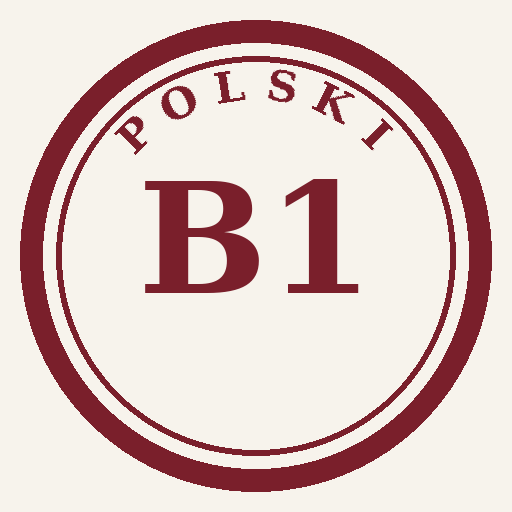
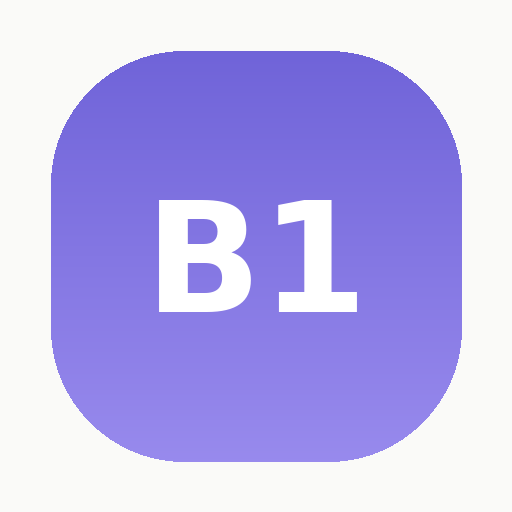
Новый дизайн: современный минималистичный edtech-стиль, sans-serif

diff --git a/index.html b/index.html
@@ -5,29 +5,32 @@
 <meta name="viewport" content="width=device-width, initial-scale=1, viewport-fit=cover">
 <title>Polski B1 — Przygotowanie</title>
 <link rel="manifest" href="manifest.json">
-<meta name="theme-color" content="#7A1F2B">
+<meta name="theme-color" content="#6B5FD6">
 <link rel="apple-touch-icon" href="icon-192.png">
 <meta name="apple-mobile-web-app-capable" content="yes">
 <meta name="apple-mobile-web-app-status-bar-style" content="black-translucent">
 <link rel="preconnect" href="https://fonts.googleapis.com">
-<link href="https://fonts.googleapis.com/css2?family=Lora:ital,wght@0,500;0,600;0,700;1,500&family=Inter:wght@400;500;600;700&display=swap" rel="stylesheet">
+<link href="https://fonts.googleapis.com/css2?family=Plus+Jakarta+Sans:wght@500;600;700;800&family=Inter:wght@400;500;600;700&display=swap" rel="stylesheet">
 <style>
 
 :root{
-  --paper:#F7F3EC;
-  --paper-2:#EFE8DA;
-  --ink:#1F1B16;
-  --ink-soft:#5A5249;
-  --seal:#7A1F2B;
-  --seal-dark:#5E1521;
-  --gold:#D9A441;
-  --ok:#3F6B4F;
-  --ok-bg:#E7EFE5;
-  --bad:#A8392E;
-  --bad-bg:#F6E6E2;
-  --line:#DCD3C0;
-  --radius:14px;
-  --shadow: 0 2px 10px rgba(31,27,22,0.06), 0 1px 2px rgba(31,27,22,0.08);
+  --paper:#FAFAF8;
+  --paper-2:#F1EEFB;
+  --card:#FFFFFF;
+  --ink:#2B2A33;
+  --ink-soft:#8B8997;
+  --seal:#6B5FD6;
+  --seal-dark:#564AC2;
+  --seal-light:#EDE9FC;
+  --gold:#F4A99B;
+  --ok:#2FA876;
+  --ok-bg:#E3F6ED;
+  --bad:#E8685B;
+  --bad-bg:#FDECEA;
+  --mint:#8FD4B8;
+  --line:#ECEAF2;
+  --radius:18px;
+  --shadow: 0 1px 2px rgba(43,42,51,0.04), 0 8px 24px rgba(107,95,214,0.07);
 }
 
 *{box-sizing:border-box;}
@@ -41,7 +44,7 @@ body{
   padding-bottom:env(safe-area-inset-bottom);
 }
 
-h1,h2,h3,.serif{font-family:'Lora',serif;}
+h1,h2,h3,.serif{font-family:'Plus Jakarta Sans',sans-serif;}
 
 /* ---------- App shell ---------- */
 #app{max-width:720px;margin:0 auto;min-height:100vh;display:flex;flex-direction:column;}
@@ -49,7 +52,8 @@ h1,h2,h3,.serif{font-family:'Lora',serif;}
 /* Header */
 .topbar{
   position:sticky; top:0; z-index:20;
-  background:var(--paper);
+  background:rgba(250,250,248,0.92);
+  backdrop-filter: blur(10px);
   border-bottom:1px solid var(--line);
   padding:14px 18px;
   display:flex; align-items:center; gap:12px;
@@ -57,189 +61,195 @@ h1,h2,h3,.serif{font-family:'Lora',serif;}
 }
 .topbar .back-btn{
   width:36px;height:36px;border-radius:50%;
-  border:1px solid var(--line); background:var(--paper);
+  border:none; background:var(--paper-2);
   display:flex;align-items:center;justify-content:center;
   cursor:pointer; flex-shrink:0; color:var(--seal);
-  font-size:18px; user-select:none;
+  font-size:16px; user-select:none;
 }
 .topbar .back-btn.hidden{visibility:hidden;}
-.topbar .title{font-family:'Lora',serif; font-weight:600; font-size:18px; flex:1; line-height:1.2;}
-.topbar .title small{display:block;font-family:'Inter';font-weight:400;font-size:12px;color:var(--ink-soft);margin-top:1px;}
+.topbar .title{font-family:'Plus Jakarta Sans',sans-serif; font-weight:700; font-size:17px; flex:1; line-height:1.2;}
+.topbar .title small{display:block;font-family:'Inter';font-weight:500;font-size:12px;color:var(--ink-soft);margin-top:2px;}
 
-/* Seal logo (signature element) */
+/* Badge logo (signature element) */
 .seal{
-  width:34px;height:34px;border-radius:50%;
-  border:2px solid var(--seal);
+  width:34px;height:34px;border-radius:11px;
+  background:linear-gradient(135deg, var(--seal), #9D8FF0);
   display:flex;align-items:center;justify-content:center;
-  font-family:'Lora',serif; font-weight:700; font-size:12px; color:var(--seal);
+  font-family:'Plus Jakarta Sans',sans-serif; font-weight:800; font-size:12px; color:#fff;
   flex-shrink:0;
-  position:relative;
-}
-.seal::after{
-  content:'';position:absolute;inset:3px;border:1px solid var(--seal);border-radius:50%;
 }
 
 main{flex:1; padding:20px 18px 48px;}
 
 /* ---------- Home screen ---------- */
 .hero{
-  text-align:center; padding:28px 10px 22px;
+  text-align:center; padding:32px 10px 24px;
 }
-.hero .seal-big{
-  width:104px;height:104px;border-radius:50%;
-  border:3px solid var(--seal); margin:0 auto 18px;
+.hero .ring-big{
+  width:108px;height:108px;border-radius:50%;
+  background:linear-gradient(135deg, var(--seal), #9D8FF0, var(--mint));
+  margin:0 auto 20px;
+  display:flex;align-items:center;justify-content:center;
+  padding:5px;
+}
+.hero .ring-big .inner{
+  width:100%;height:100%;border-radius:50%;background:var(--card);
   display:flex;flex-direction:column;align-items:center;justify-content:center;
-  position:relative;
 }
-.hero .seal-big::after{content:'';position:absolute;inset:6px;border:1.5px solid var(--seal);border-radius:50%;}
-.hero .seal-big b{font-family:'Lora',serif;font-size:34px;color:var(--seal);font-weight:700;}
-.hero .seal-big span{font-family:'Lora',serif;font-size:9px;letter-spacing:3px;color:var(--seal);margin-top:2px;}
-.hero h1{font-size:26px;margin:0 0 6px;font-weight:600;}
-.hero p{color:var(--ink-soft);font-size:14px;margin:0;line-height:1.5;}
+.hero .ring-big b{font-family:'Plus Jakarta Sans',sans-serif;font-size:30px;color:var(--seal);font-weight:800;}
+.hero .ring-big span{font-family:'Inter',sans-serif;font-size:9px;letter-spacing:2.5px;color:var(--ink-soft);margin-top:2px;font-weight:600;}
+.hero h1{font-size:25px;margin:0 0 8px;font-weight:700;letter-spacing:-0.3px;}
+.hero p{color:var(--ink-soft);font-size:14.5px;margin:0;line-height:1.55;}
 
 .section-label{
-  font-family:'Lora',serif; font-style:italic; color:var(--ink-soft);
-  font-size:13px; margin:28px 2px 10px; display:flex; align-items:center; gap:8px;
+  font-family:'Plus Jakarta Sans',sans-serif; font-weight:700; color:var(--ink);
+  font-size:13px; margin:30px 4px 12px; display:flex; align-items:center; gap:8px;
+  text-transform:uppercase; letter-spacing:0.5px;
 }
 .section-label::after{content:'';flex:1;height:1px;background:var(--line);}
 
 .menu-grid{display:flex;flex-direction:column;gap:10px;}
 .menu-card{
-  background:#fff; border:1px solid var(--line); border-radius:var(--radius);
+  background:var(--card); border:none; border-radius:var(--radius);
   padding:16px 16px; display:flex; align-items:center; gap:14px;
-  cursor:pointer; box-shadow:var(--shadow); transition:transform .15s, border-color .15s;
+  cursor:pointer; box-shadow:var(--shadow); transition:transform .15s;
   text-align:left;
 }
 .menu-card:active{transform:scale(0.98);}
 .menu-card .icon-badge{
-  width:44px;height:44px;border-radius:10px;background:var(--paper-2);
-  display:flex;align-items:center;justify-content:center;font-size:20px;flex-shrink:0;
-  color:var(--seal); font-family:'Lora',serif; font-weight:600;
+  width:46px;height:46px;border-radius:14px;background:var(--seal-light);
+  display:flex;align-items:center;justify-content:center;font-size:19px;flex-shrink:0;
+  color:var(--seal); font-family:'Plus Jakarta Sans',sans-serif; font-weight:700;
 }
 .menu-card .body{flex:1;}
-.menu-card .body .t{font-family:'Lora',serif;font-weight:600;font-size:16px;margin:0 0 2px;}
+.menu-card .body .t{font-family:'Plus Jakarta Sans',sans-serif;font-weight:700;font-size:15.5px;margin:0 0 2px;letter-spacing:-0.1px;}
 .menu-card .body .s{font-size:12.5px;color:var(--ink-soft);margin:0;}
 .menu-card .chev{color:var(--ink-soft);font-size:18px;opacity:.5;}
 .menu-card .progress-pill{
-  font-size:11px; font-weight:600; color:var(--seal); background:var(--paper-2);
-  padding:3px 9px; border-radius:20px; flex-shrink:0; white-space:nowrap;
+  font-size:11px; font-weight:700; color:var(--seal); background:var(--seal-light);
+  padding:4px 10px; border-radius:20px; flex-shrink:0; white-space:nowrap;
 }
-.menu-card.disabled{opacity:.45; cursor:default;}
+.menu-card.disabled{opacity:.5; cursor:default;}
 .menu-card.disabled:active{transform:none;}
+.menu-card.disabled .progress-pill{color:var(--ink-soft);background:var(--paper-2);}
 
 /* ---------- Topic list (grammar / exam list) ---------- */
 .topic-list{display:flex;flex-direction:column;gap:8px;}
 .topic-row{
-  background:#fff;border:1px solid var(--line);border-radius:12px;
+  background:var(--card);border:none;border-radius:16px;box-shadow:var(--shadow);
   padding:14px 16px; display:flex; align-items:center; gap:12px; cursor:pointer;
 }
 .topic-row .num{
-  font-family:'Lora',serif; color:var(--seal); font-weight:600; font-size:14px;
-  width:28px;height:28px;border-radius:50%;border:1.5px solid var(--seal);
+  font-family:'Plus Jakarta Sans',sans-serif; color:var(--seal); font-weight:700; font-size:14px;
+  width:30px;height:30px;border-radius:10px;background:var(--seal-light);
   display:flex;align-items:center;justify-content:center;flex-shrink:0;
 }
 .topic-row .t{flex:1;}
-.topic-row .t .tt{font-weight:600;font-size:15px;font-family:'Lora',serif;}
-.topic-row .t .ts{font-size:12px;color:var(--ink-soft);margin-top:1px;}
+.topic-row .t .tt{font-weight:700;font-size:15px;font-family:'Plus Jakarta Sans',sans-serif;letter-spacing:-0.1px;}
+.topic-row .t .ts{font-size:12px;color:var(--ink-soft);margin-top:2px;}
 .topic-row .mark{font-size:16px;flex-shrink:0;}
 .topic-row .mark.done{color:var(--ok);}
 
 /* ---------- Lesson content ---------- */
 .lesson-intro{
-  background:#fff;border:1px solid var(--line);border-radius:var(--radius);
+  background:var(--card);border:none;border-radius:var(--radius);box-shadow:var(--shadow);
   padding:18px; margin-bottom:18px; font-size:14.5px; line-height:1.65;
 }
-.lesson-intro b{color:var(--seal-dark);}
+.lesson-intro b{color:var(--seal);font-weight:700;}
 
 .case-card{
-  background:#fff;border:1px solid var(--line);border-left:4px solid var(--seal);
-  border-radius:10px; padding:14px 16px; margin-bottom:10px;
+  background:var(--card);border:none;border-radius:16px;box-shadow:var(--shadow);
+  padding:15px 17px; margin-bottom:10px;
 }
-.case-card .head{display:flex;align-items:baseline;gap:10px;margin-bottom:6px;flex-wrap:wrap;}
-.case-card .head .name{font-family:'Lora',serif;font-weight:600;font-size:16px;}
-.case-card .head .q{font-size:13px;color:var(--gold);font-weight:600;}
-.case-card .use{font-size:13.5px;color:var(--ink-soft);line-height:1.5;margin-bottom:6px;}
-.case-card .ex{font-size:14px;background:var(--paper-2);padding:8px 10px;border-radius:8px;line-height:1.55;}
+.case-card .head{display:flex;align-items:baseline;gap:10px;margin-bottom:7px;flex-wrap:wrap;}
+.case-card .head .name{font-family:'Plus Jakarta Sans',sans-serif;font-weight:700;font-size:16px;letter-spacing:-0.1px;}
+.case-card .head .q{font-size:12.5px;color:var(--seal);font-weight:700;background:var(--seal-light);padding:2px 9px;border-radius:8px;}
+.case-card .use{font-size:13.5px;color:var(--ink-soft);line-height:1.55;margin-bottom:8px;}
+.case-card .ex{font-size:14px;background:var(--paper-2);padding:9px 12px;border-radius:10px;line-height:1.55;}
+.case-card .ex b{color:var(--seal-dark);}
 
-.data-table{width:100%;border-collapse:collapse;margin:14px 0;font-size:13px;background:#fff;border-radius:10px;overflow:hidden;box-shadow:var(--shadow);}
-.data-table caption{font-family:'Lora',serif;font-style:italic;font-size:12.5px;color:var(--ink-soft);text-align:left;margin-bottom:8px;caption-side:top;}
-.data-table th{background:var(--seal);color:#fff;padding:8px 10px;text-align:left;font-weight:600;font-size:12px;}
-.data-table td{padding:7px 10px;border-bottom:1px solid var(--line);}
+.data-table{width:100%;border-collapse:collapse;margin:14px 0;font-size:13px;background:var(--card);border-radius:14px;overflow:hidden;box-shadow:var(--shadow);}
+.data-table caption{font-family:'Plus Jakarta Sans',sans-serif;font-weight:600;font-size:12.5px;color:var(--ink-soft);text-align:left;margin-bottom:8px;caption-side:top;}
+.data-table th{background:var(--seal);color:#fff;padding:9px 11px;text-align:left;font-weight:600;font-size:12px;}
+.data-table td{padding:8px 11px;border-bottom:1px solid var(--line);}
 .data-table tr:last-child td{border-bottom:none;}
 .data-table tr:nth-child(even) td{background:var(--paper-2);}
 
 .exceptions-box{
-  background:var(--bad-bg); border:1px solid #E8C9C2; border-radius:var(--radius);
-  padding:16px; margin:16px 0;
+  background:var(--bad-bg); border:none; border-radius:var(--radius);
+  padding:17px; margin:16px 0;
 }
-.exceptions-box .lbl{font-family:'Lora',serif;font-weight:600;color:var(--bad);font-size:14px;margin-bottom:8px;display:flex;align-items:center;gap:6px;}
+.exceptions-box .lbl{font-family:'Plus Jakarta Sans',sans-serif;font-weight:700;color:var(--bad);font-size:13.5px;margin-bottom:9px;display:flex;align-items:center;gap:6px;}
 .exceptions-box ul{margin:0;padding-left:18px;}
 .exceptions-box li{font-size:13.5px;line-height:1.6;margin-bottom:7px;color:var(--ink);}
 .exceptions-box li:last-child{margin-bottom:0;}
 
 .cta-row{margin-top:22px;}
 .btn{
-  display:block; width:100%; text-align:center; padding:14px 20px;
-  background:var(--seal); color:#fff; border:none; border-radius:12px;
-  font-family:'Inter';font-weight:600;font-size:15px; cursor:pointer;
-  transition:background .15s;
+  display:block; width:100%; text-align:center; padding:15px 20px;
+  background:var(--seal); color:#fff; border:none; border-radius:14px;
+  font-family:'Plus Jakarta Sans';font-weight:700;font-size:15px; cursor:pointer;
+  transition:background .15s; letter-spacing:-0.1px;
 }
 .btn:active{background:var(--seal-dark);}
-.btn.secondary{background:transparent;color:var(--seal);border:1.5px solid var(--seal);}
-.btn.ghost{background:transparent;color:var(--ink-soft);border:1px solid var(--line);}
+.btn.secondary{background:var(--seal-light);color:var(--seal);}
+.btn.ghost{background:var(--paper-2);color:var(--ink-soft);}
 
 /* ---------- Quiz ---------- */
 .quiz-progress{display:flex;gap:5px;margin-bottom:18px;}
-.quiz-progress .dot{flex:1;height:5px;border-radius:3px;background:var(--line);}
-.quiz-progress .dot.done{background:var(--ok);}
-.quiz-progress .dot.current{background:var(--gold);}
+.quiz-progress .dot{flex:1;height:6px;border-radius:4px;background:var(--line);}
+.quiz-progress .dot.done{background:var(--mint);}
+.quiz-progress .dot.current{background:var(--seal);}
 
 .quiz-q{
-  background:#fff;border:1px solid var(--line);border-radius:var(--radius);
-  padding:20px; margin-bottom:18px;
+  background:var(--card);border:none;border-radius:var(--radius);box-shadow:var(--shadow);
+  padding:22px; margin-bottom:18px;
 }
-.quiz-q .qtext{font-family:'Lora',serif;font-size:18px;font-weight:500;line-height:1.45;margin-bottom:4px;}
-.quiz-q .qnum{font-size:12px;color:var(--ink-soft);margin-bottom:10px;}
+.quiz-q .qtext{font-family:'Plus Jakarta Sans',sans-serif;font-size:18px;font-weight:700;line-height:1.4;margin-bottom:4px;letter-spacing:-0.2px;}
+.quiz-q .qnum{font-size:12px;color:var(--ink-soft);margin-bottom:10px;font-weight:600;text-transform:uppercase;letter-spacing:0.4px;}
 
 .opt-list{display:flex;flex-direction:column;gap:9px;}
 .opt{
-  border:1.5px solid var(--line); border-radius:10px; padding:13px 15px;
-  font-size:15px; cursor:pointer; background:#fff; transition:.12s;
+  border:none; border-radius:14px; padding:13px 15px;
+  font-size:15px; cursor:pointer; background:var(--paper-2); transition:.12s;
   display:flex; align-items:center; gap:10px;
 }
 .opt .letter{
-  width:24px;height:24px;border-radius:50%;border:1.5px solid var(--line);
-  display:flex;align-items:center;justify-content:center;font-size:12px;font-weight:600;
+  width:26px;height:26px;border-radius:9px;background:var(--card);
+  display:flex;align-items:center;justify-content:center;font-size:12px;font-weight:700;
   color:var(--ink-soft); flex-shrink:0;
 }
 .opt:active{transform:scale(0.99);}
-.opt.selected{border-color:var(--seal);background:#FBF3F0;}
-.opt.selected .letter{border-color:var(--seal);color:var(--seal);}
-.opt.correct{border-color:var(--ok);background:var(--ok-bg);}
-.opt.correct .letter{border-color:var(--ok);background:var(--ok);color:#fff;}
-.opt.incorrect{border-color:var(--bad);background:var(--bad-bg);}
-.opt.incorrect .letter{border-color:var(--bad);background:var(--bad);color:#fff;}
+.opt.selected{background:var(--seal-light);}
+.opt.selected .letter{background:var(--seal);color:#fff;}
+.opt.correct{background:var(--ok-bg);}
+.opt.correct .letter{background:var(--ok);color:#fff;}
+.opt.incorrect{background:var(--bad-bg);}
+.opt.incorrect .letter{background:var(--bad);color:#fff;}
 .opt.disabled{cursor:default;}
 
 .explain-box{
-  margin-top:14px; padding:13px 15px; border-radius:10px;
-  background:var(--paper-2); font-size:13.5px; line-height:1.55;
-  border-left:3px solid var(--gold);
+  margin-top:14px; padding:14px 16px; border-radius:14px;
+  background:var(--seal-light); font-size:13.5px; line-height:1.55;
 }
-.explain-box b{color:var(--seal-dark);}
+.explain-box b{color:var(--seal-dark);font-weight:700;}
 
 .quiz-nav{display:flex; gap:10px; margin-top:4px;}
 .quiz-nav .btn{flex:1;}
 
 /* result screen */
 .result-seal{
-  width:130px;height:130px;border-radius:50%;border:3px solid var(--seal);
-  margin:10px auto 20px; display:flex;flex-direction:column;align-items:center;justify-content:center;
-  position:relative;
+  width:134px;height:134px;border-radius:50%;
+  background:linear-gradient(135deg, var(--seal), #9D8FF0, var(--mint));
+  margin:10px auto 22px; padding:5px;
+  display:flex;align-items:center;justify-content:center;
 }
-.result-seal::after{content:'';position:absolute;inset:7px;border:1.5px solid var(--seal);border-radius:50%;}
-.result-seal .pct{font-family:'Lora',serif;font-size:36px;font-weight:700;color:var(--seal);}
-.result-seal .lbl{font-size:10px;letter-spacing:2px;color:var(--seal);font-family:'Lora',serif;}
+.result-seal .inner{
+  width:100%;height:100%;border-radius:50%;background:var(--card);
+  display:flex;flex-direction:column;align-items:center;justify-content:center;
+}
+.result-seal .pct{font-family:'Plus Jakarta Sans',sans-serif;font-size:34px;font-weight:800;color:var(--seal);}
+.result-seal .lbl{font-size:10px;letter-spacing:2px;color:var(--ink-soft);font-weight:700;margin-top:2px;}
 
 .empty-state{
   text-align:center; padding:60px 20px; color:var(--ink-soft);
@@ -249,12 +259,12 @@ main{flex:1; padding:20px 18px 48px;}
 
 /* Install hint */
 .install-hint{
-  background:var(--paper-2); border:1px dashed var(--line); border-radius:12px;
-  padding:13px 15px; font-size:12.5px; color:var(--ink-soft); margin-top:24px; line-height:1.55;
+  background:var(--seal-light); border:none; border-radius:var(--radius);
+  padding:14px 16px; font-size:12.5px; color:var(--ink-soft); margin-top:24px; line-height:1.55;
   display:none;
 }
 .install-hint.show{display:block;}
-.install-hint b{color:var(--ink);}
+.install-hint b{color:var(--seal);}
 
 @media (min-width:600px){
   .hero h1{font-size:30px;}

diff --git a/app.js b/app.js
@@ -79,7 +79,7 @@ function renderHome(main){
 
   main.appendChild(el(`
     <div class="hero">
-      <div class="seal-big"><b>B1</b><span>POLSKI</span></div>
+      <div class="ring-big"><div class="inner"><b>B1</b><span>POLSKI</span></div></div>
       <h1>Przygotowanie do egzaminu</h1>
       <p>Gramatyka, cztery sprawności i symulacje egzaminu —<br>wszystko w jednym miejscu, offline.</p>
     </div>
@@ -335,8 +335,8 @@ function renderQuizResult(main, topic, correct, total){
   const pct = Math.round((correct/total)*100);
   main.appendChild(el(`
     <div style="text-align:center;padding-top:10px;">
-      <div class="result-seal"><div class="pct">${pct}%</div><div class="lbl">WYNIK</div></div>
-      <h2 style="font-size:18px;margin:0 0 6px;">${correct} z ${total} poprawnie</h2>
+      <div class="result-seal"><div class="inner"><div class="pct">${pct}%</div><div class="lbl">WYNIK</div></div></div>
+      <h2 style="font-size:18px;margin:0 0 6px;font-family:'Plus Jakarta Sans',sans-serif;font-weight:700;">${correct} z ${total} poprawnie</h2>
       <p style="color:var(--ink-soft);font-size:14px;margin:0 0 26px;">
         ${pct>=80? 'Świetnie! Ten temat masz opanowany.' : pct>=50? 'Dobry wynik, ale warto powtórzyć wyjątki.' : 'Wróć do materiału i przeczytaj wyjątki jeszcze raz.'}
       </p>